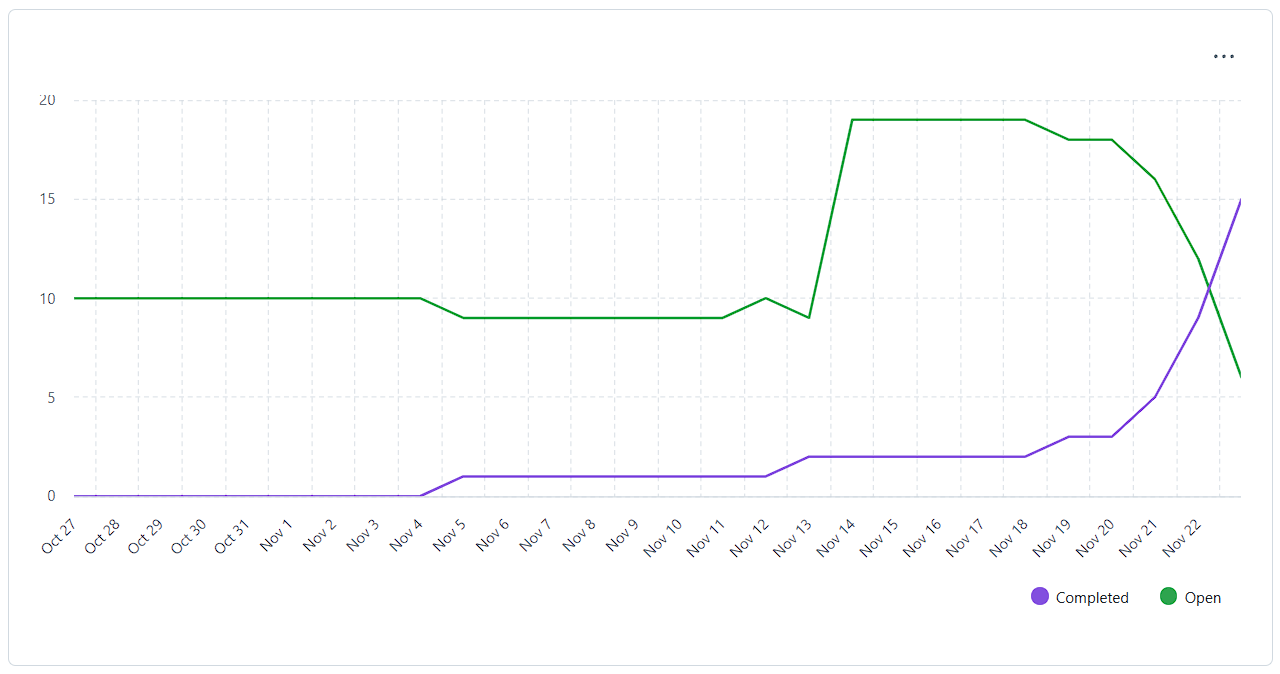
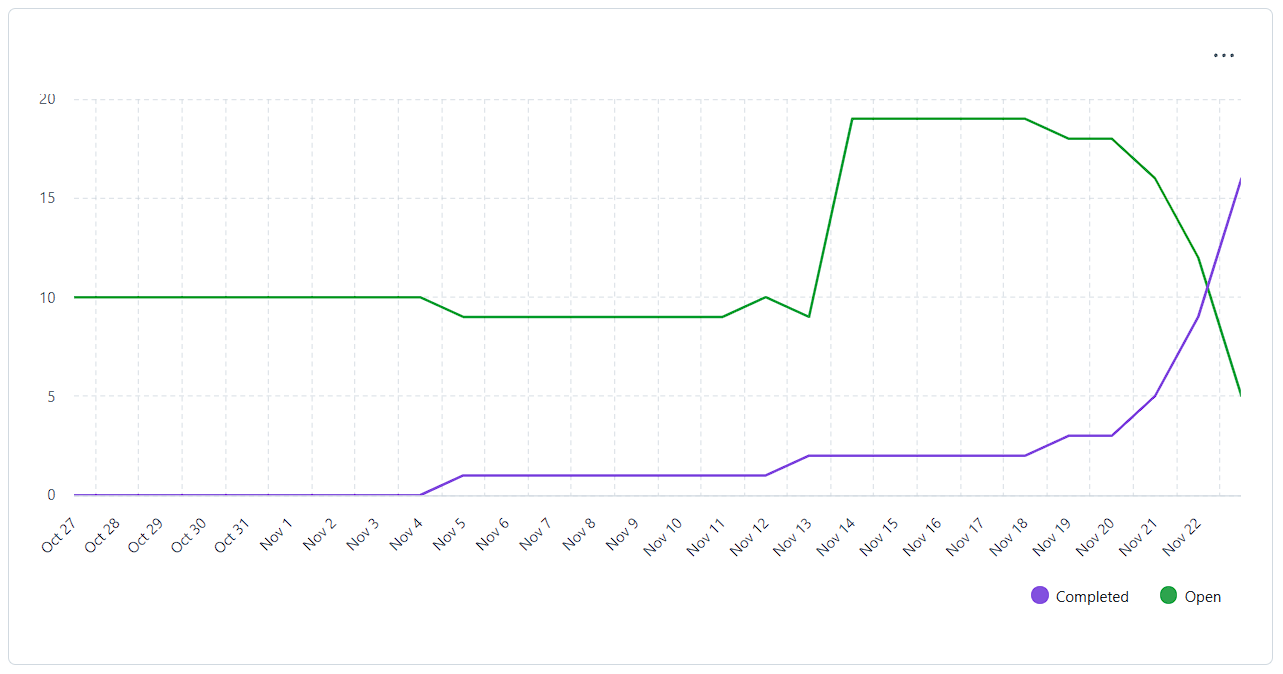
#74 #99 Final ajustments in documentation and ilumination.

diff --git a/frontend/src/app/features/port-visualization/utils/lighting.ts b/frontend/src/app/features/port-visualization/utils/lighting.ts
@@ -7,18 +7,20 @@ import * as THREE from 'three';
 export function setupLighting(scene: THREE.Scene): void {
     // Luz Solar
     const sunLight = new THREE.DirectionalLight(0xffffff, 3); 
-    sunLight.position.set(10, 20, 10); 
+    sunLight.position.set(10, 15, 10); 
     sunLight.target.position.set(0, 0, 0);
     scene.add(sunLight);
+    sunLight.shadow.mapSize.width = 2048;
+    sunLight.shadow.mapSize.height = 2048;
     sunLight.castShadow = true;
-    sunLight.shadow.camera.left = -20;
-    sunLight.shadow.camera.right = 20;
-    sunLight.shadow.camera.top = 20;
-    sunLight.shadow.camera.bottom = -20;
+    sunLight.shadow.camera.left = -22;
+    sunLight.shadow.camera.right = 22;
+    sunLight.shadow.camera.top = 16;
+    sunLight.shadow.camera.bottom = -16;
     sunLight.shadow.camera.near = 0.1;
     sunLight.shadow.camera.far = 50;
 
     // Luz Ambiente
-    const ambientLight = new THREE.AmbientLight(0xffffff, 3);
+    const ambientLight = new THREE.AmbientLight(0xffffff, 1);
     scene.add(ambientLight);
 }

diff --git a/frontend/src/app/features/storagearea/storagearea.ts b/frontend/src/app/features/storagearea/storagearea.ts
@@ -33,7 +33,7 @@ export class StorageArea implements OnInit {
   formModel: StorageAreaFormModel = {} as StorageAreaFormModel;
 
   dockToAddId: string | null = null;
-  selectedDockIdInArea: string | null = null;
+  selectedDockIdInArea: string | null = null;
 
   constructor( private api: Api, private translate: TranslateService ) {}
 
